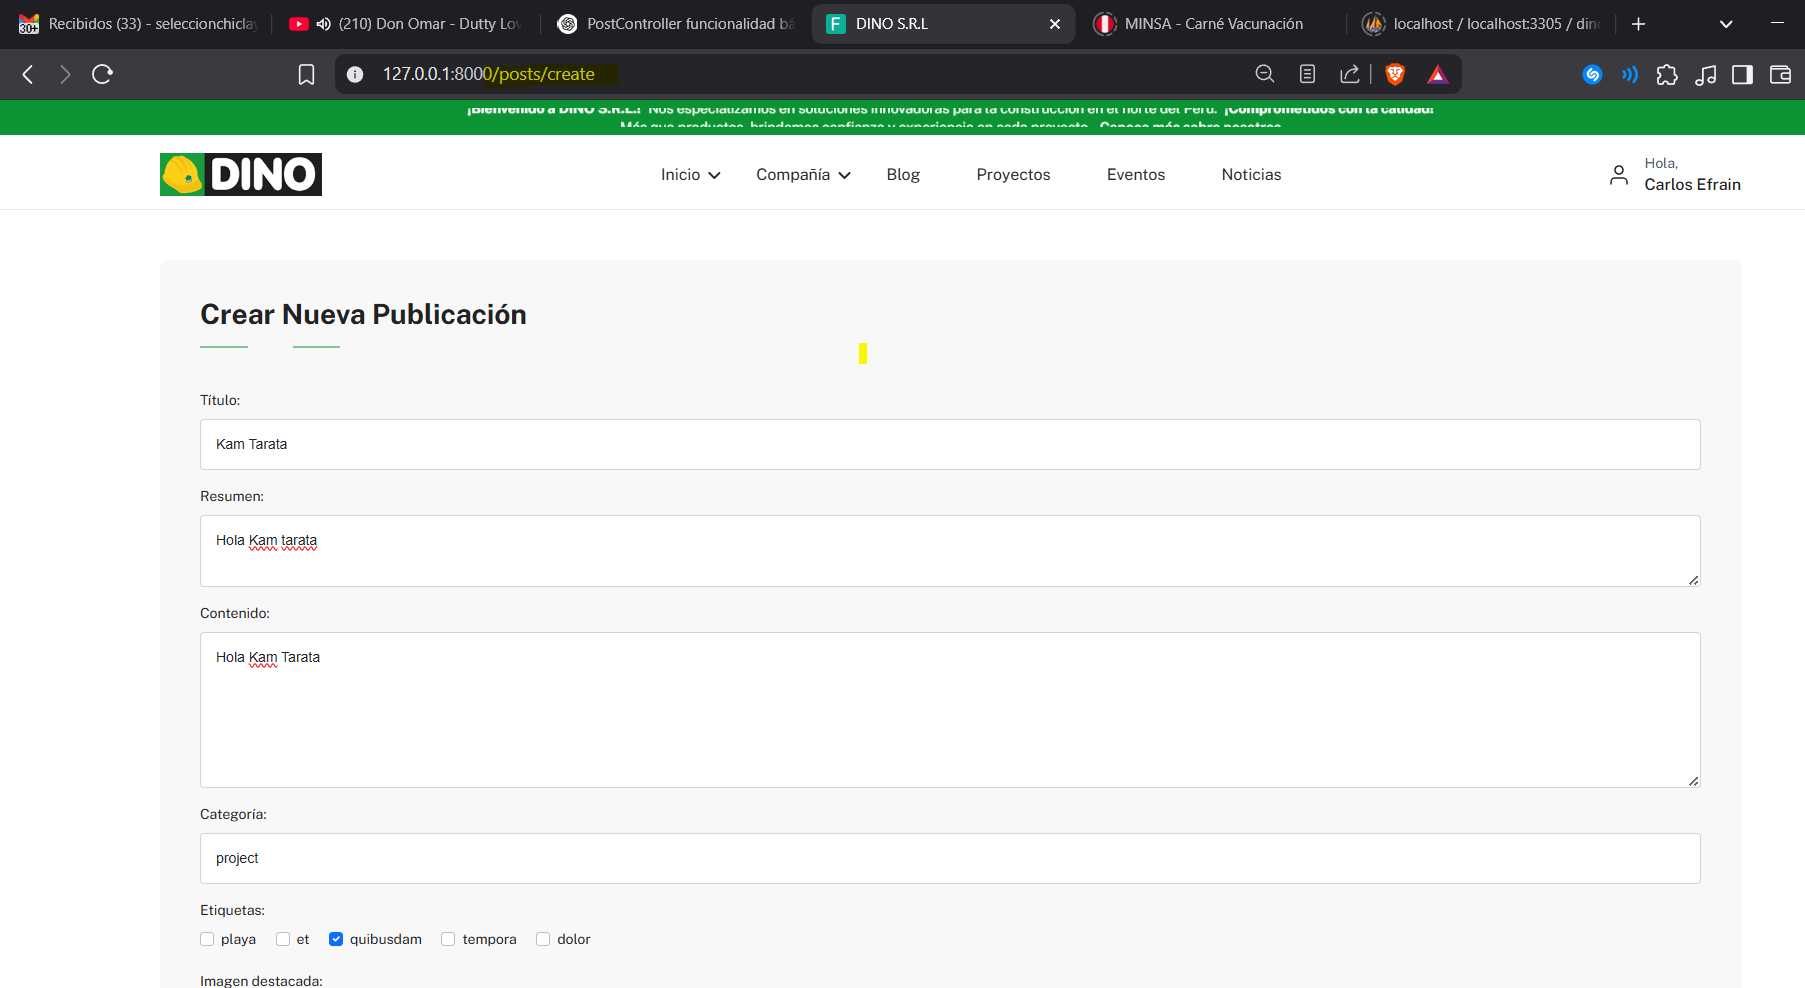
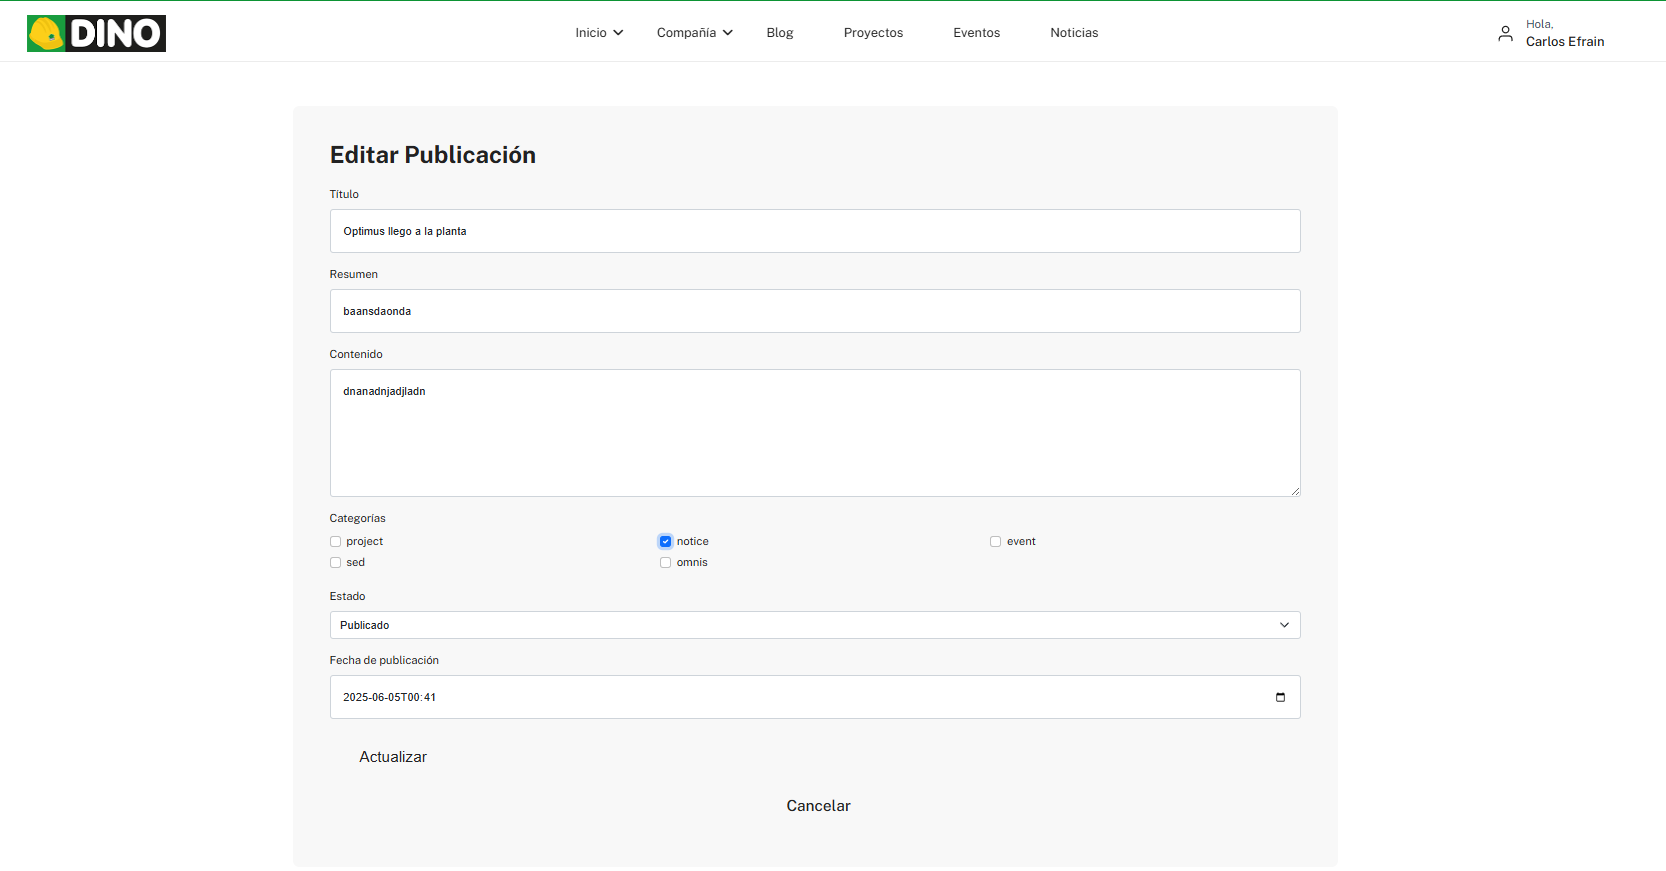
Se agrega el projecto la función de editar las publicaciones, se modifica el PostController y el edit.blade.php. Funciona correctamente, se adjunta evidencia.

diff --git a/resources/views/blog/crud/edit.blade.php b/resources/views/blog/crud/edit.blade.php
@@ -1,0 +1,94 @@
+@extends('layouts.app')
+
+@section('title', 'Editar Publicación')
+
+@section('content')
+    <section class="user-dashboard-section section-b-space">
+        <div class="container-fluid-lg">
+            <div class="row">
+                <div class="col-lg-8 offset-lg-2">
+                    <div class="dashboard-right-sidebar">
+                        <div class="title mb-4">
+                            <h2>Editar Publicación</h2>
+                        </div>
+
+                        {{-- Mostrar errores de validación --}}
+                        @if ($errors->any())
+                            <div class="alert alert-danger">
+                                <ul class="mb-0">
+                                    @foreach ($errors->all() as $error)
+                                        <li>{{ $error }}</li>
+                                    @endforeach
+                                </ul>
+                            </div>
+                        @endif
+
+                        {{-- Formulario --}}
+                        <form action="{{ route('posts.update', $post->id) }}" method="POST">
+                            @csrf
+                            @method('PUT')
+
+                            {{-- Título --}}
+                            <div class="mb-3">
+                                <label for="title" class="form-label">Título</label>
+                                <input type="text" name="title" id="title" class="form-control"
+                                    value="{{ old('title', $post->title) }}" required>
+                            </div>
+
+                            {{-- Resumen --}}
+                            <div class="mb-3">
+                                <label for="summary" class="form-label">Resumen</label>
+                                <input type="text" name="summary" id="summary" class="form-control"
+                                    value="{{ old('summary', $post->summary) }}" required>
+                            </div>
+
+                            {{-- Contenido --}}
+                            <div class="mb-3">
+                                <label for="content" class="form-label">Contenido</label>
+                                <textarea name="content" id="content" class="form-control" rows="6" required>{{ old('content', $post->content) }}</textarea>
+                            </div>
+
+                            {{-- Categorías (checkbox múltiples) --}}
+                            <div class="mb-3">
+                                <label class="form-label">Categorías</label>
+                                <div class="row">
+                                    @foreach ($categories as $category)
+                                        <div class="col-md-4">
+                                            <div class="form-check">
+                                                <input class="form-check-input" type="checkbox" name="categories[]"
+                                                    value="{{ $category->id }}" id="cat{{ $category->id }}"
+                                                    {{ in_array($category->id, old('categories', $post->categories->pluck('id')->toArray())) ? 'checked' : '' }}>
+                                                <label class="form-check-label" for="cat{{ $category->id }}">
+                                                    {{ $category->name }}
+                                                </label>
+                                            </div>
+                                        </div>
+                                    @endforeach
+                                </div>
+                            </div>
+
+                            {{-- Estado --}}
+                            <div class="mb-3">
+                                <label for="status" class="form-label">Estado</label>
+                                <select name="status" id="status" class="form-select" required>
+                                    <option value="draft" {{ old('status', $post->status) == 'draft' ? 'selected' : '' }}>
+                                        Borrador</option>
+                                    <option value="published"
+                                        {{ old('status', $post->status) == 'published' ? 'selected' : '' }}>Publicado
+                                    </option>
+                                </select>
+
+                            </div>
+
+                            {{-- Botón guardar --}}
+                            <button type="submit" class="btn btn-primary">Actualizar</button>
+
+                            {{-- Botón cancelar --}}
+                            <a href="{{ route('posts.userPosts') }}" class="btn btn-secondary ms-2">Cancelar</a>
+                        </form>
+                    </div>
+                </div>
+            </div>
+        </div>
+    </section>
+@endsection

diff --git a/app/Http/Controllers/PostController.php b/app/Http/Controllers/PostController.php
@@ -173,7 +173,8 @@ class PostController extends Controller
             'title' => 'required|string|max:255',
             'summary' => 'required|string|max:500',
             'content' => 'required|string',
-            'category_id' => 'required|exists:categories,id',
+            'categories' => 'required|array|min:1',
+            'categories.*' => 'exists:categories,id',
             'tags' => 'array',
             'tags.*' => 'exists:tags,id',
             'featured_image' => 'nullable|image|mimes:jpeg,png,jpg,gif|max:2048',
@@ -196,11 +197,12 @@ class PostController extends Controller
             'published_at' => $request->status === 'published' ? now() : null,
         ]);
 
-        $post->categories()->sync([$request->category_id]);
+        $post->categories()->sync($request->categories);
         $post->tags()->sync($request->tags ?? []);
 
         return redirect()->route('posts.userPosts')->with('success', '¡Post actualizado exitosamente!');
     }
+
 
     public function destroy($id)
     {
